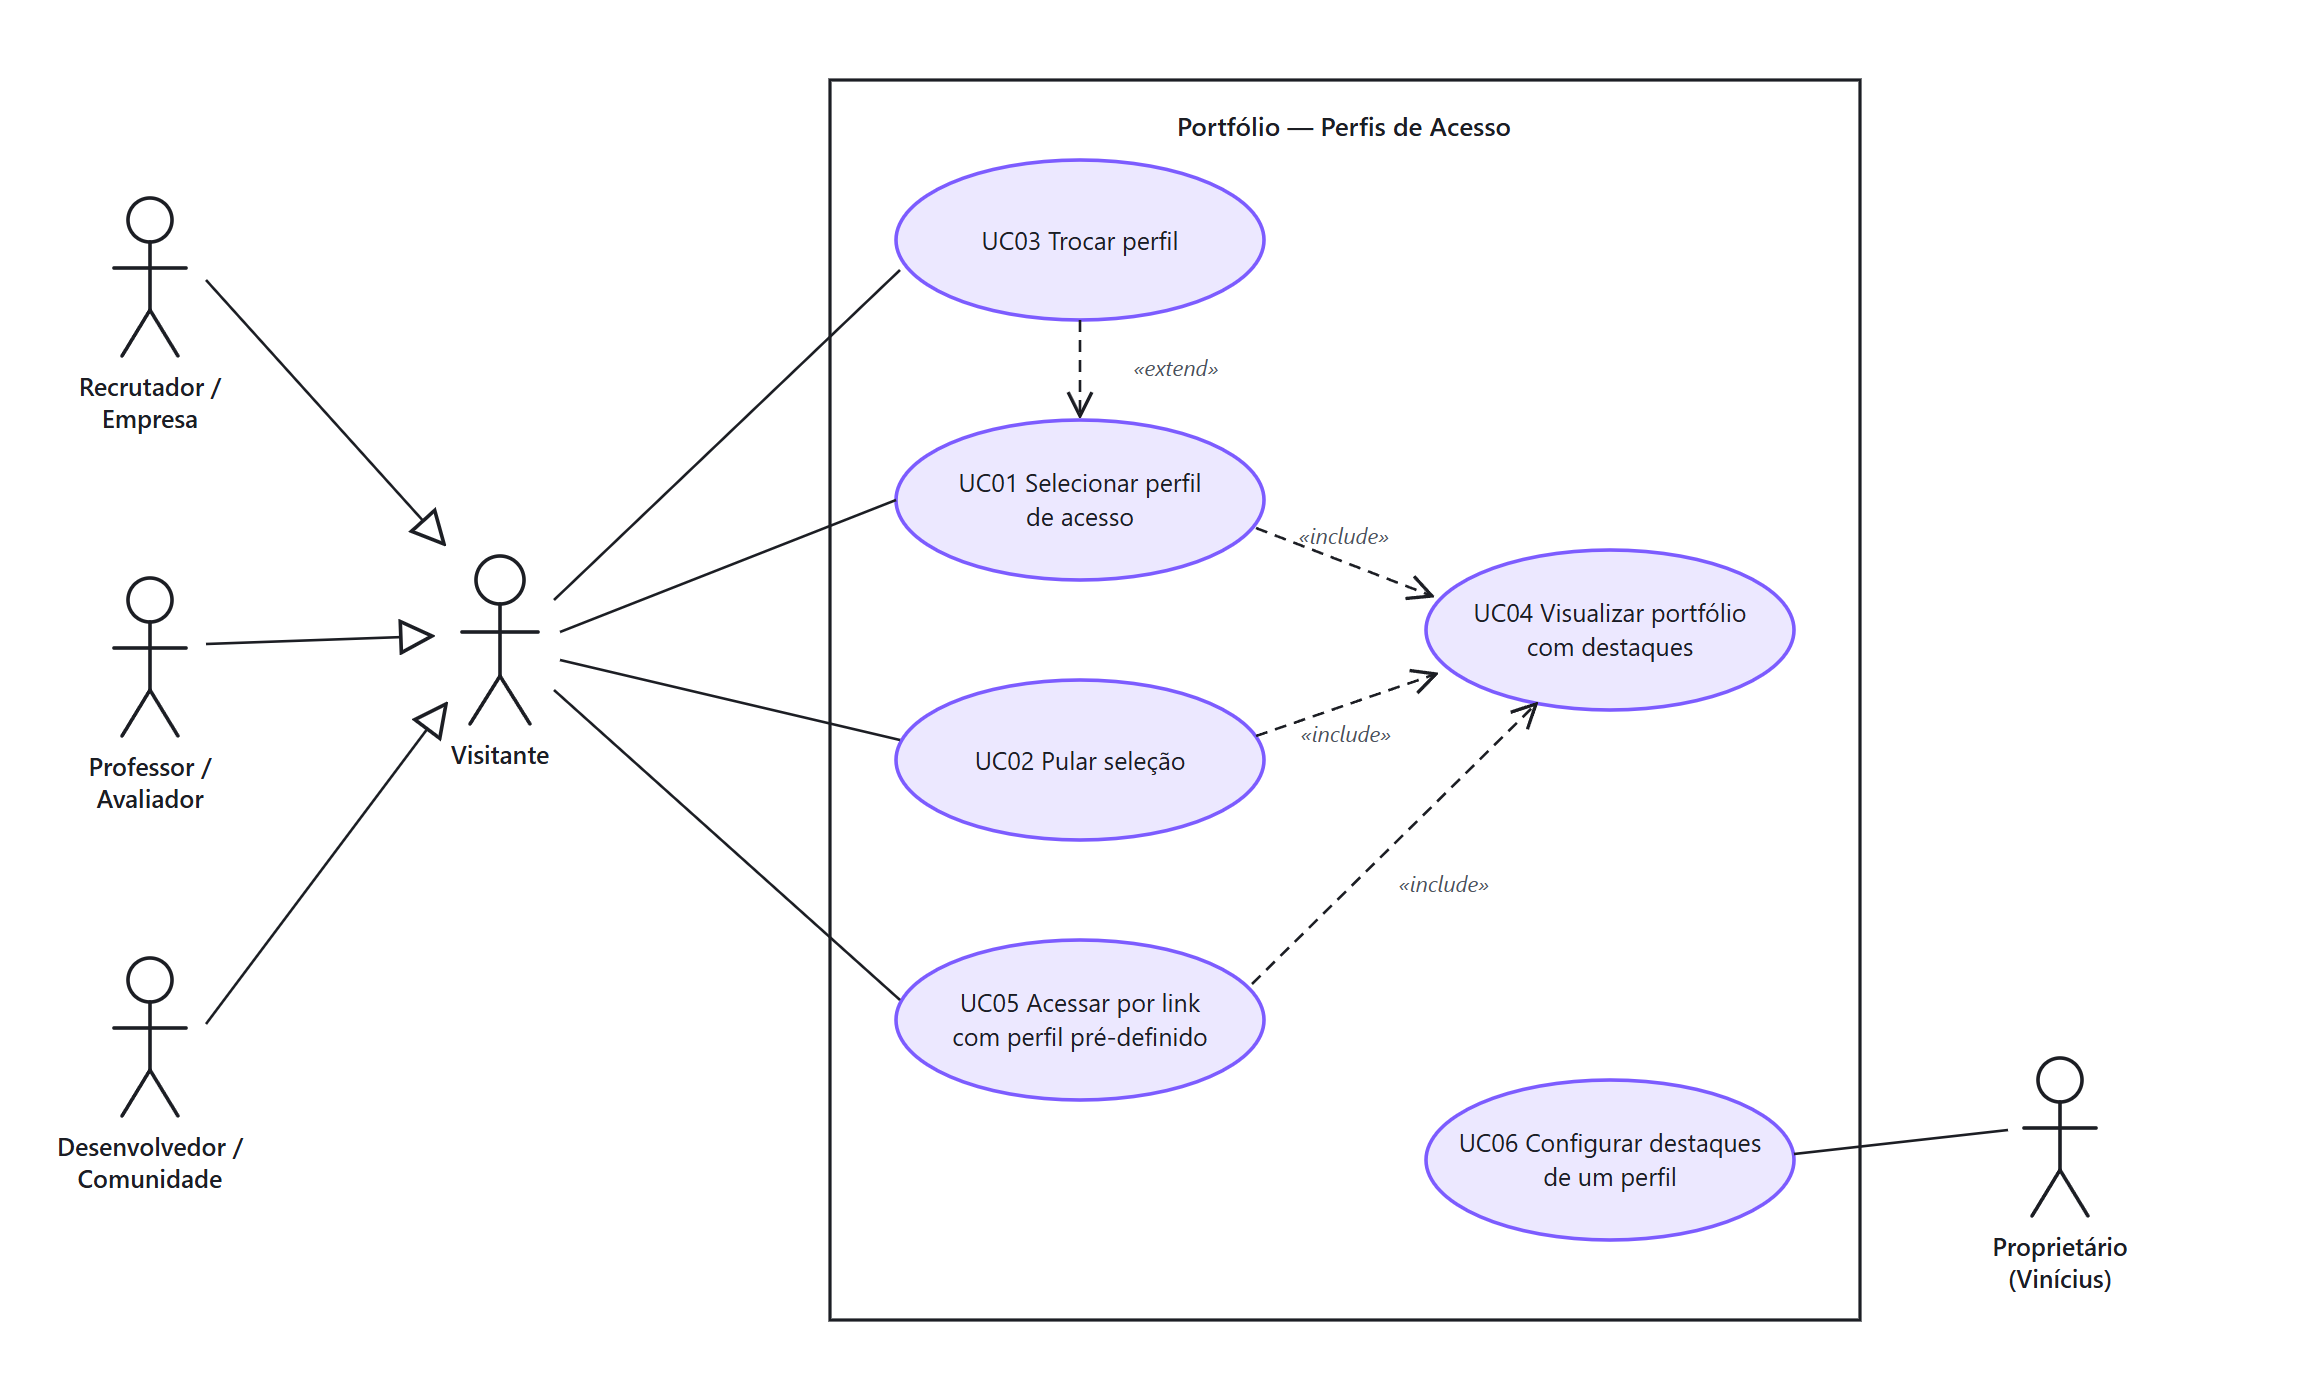
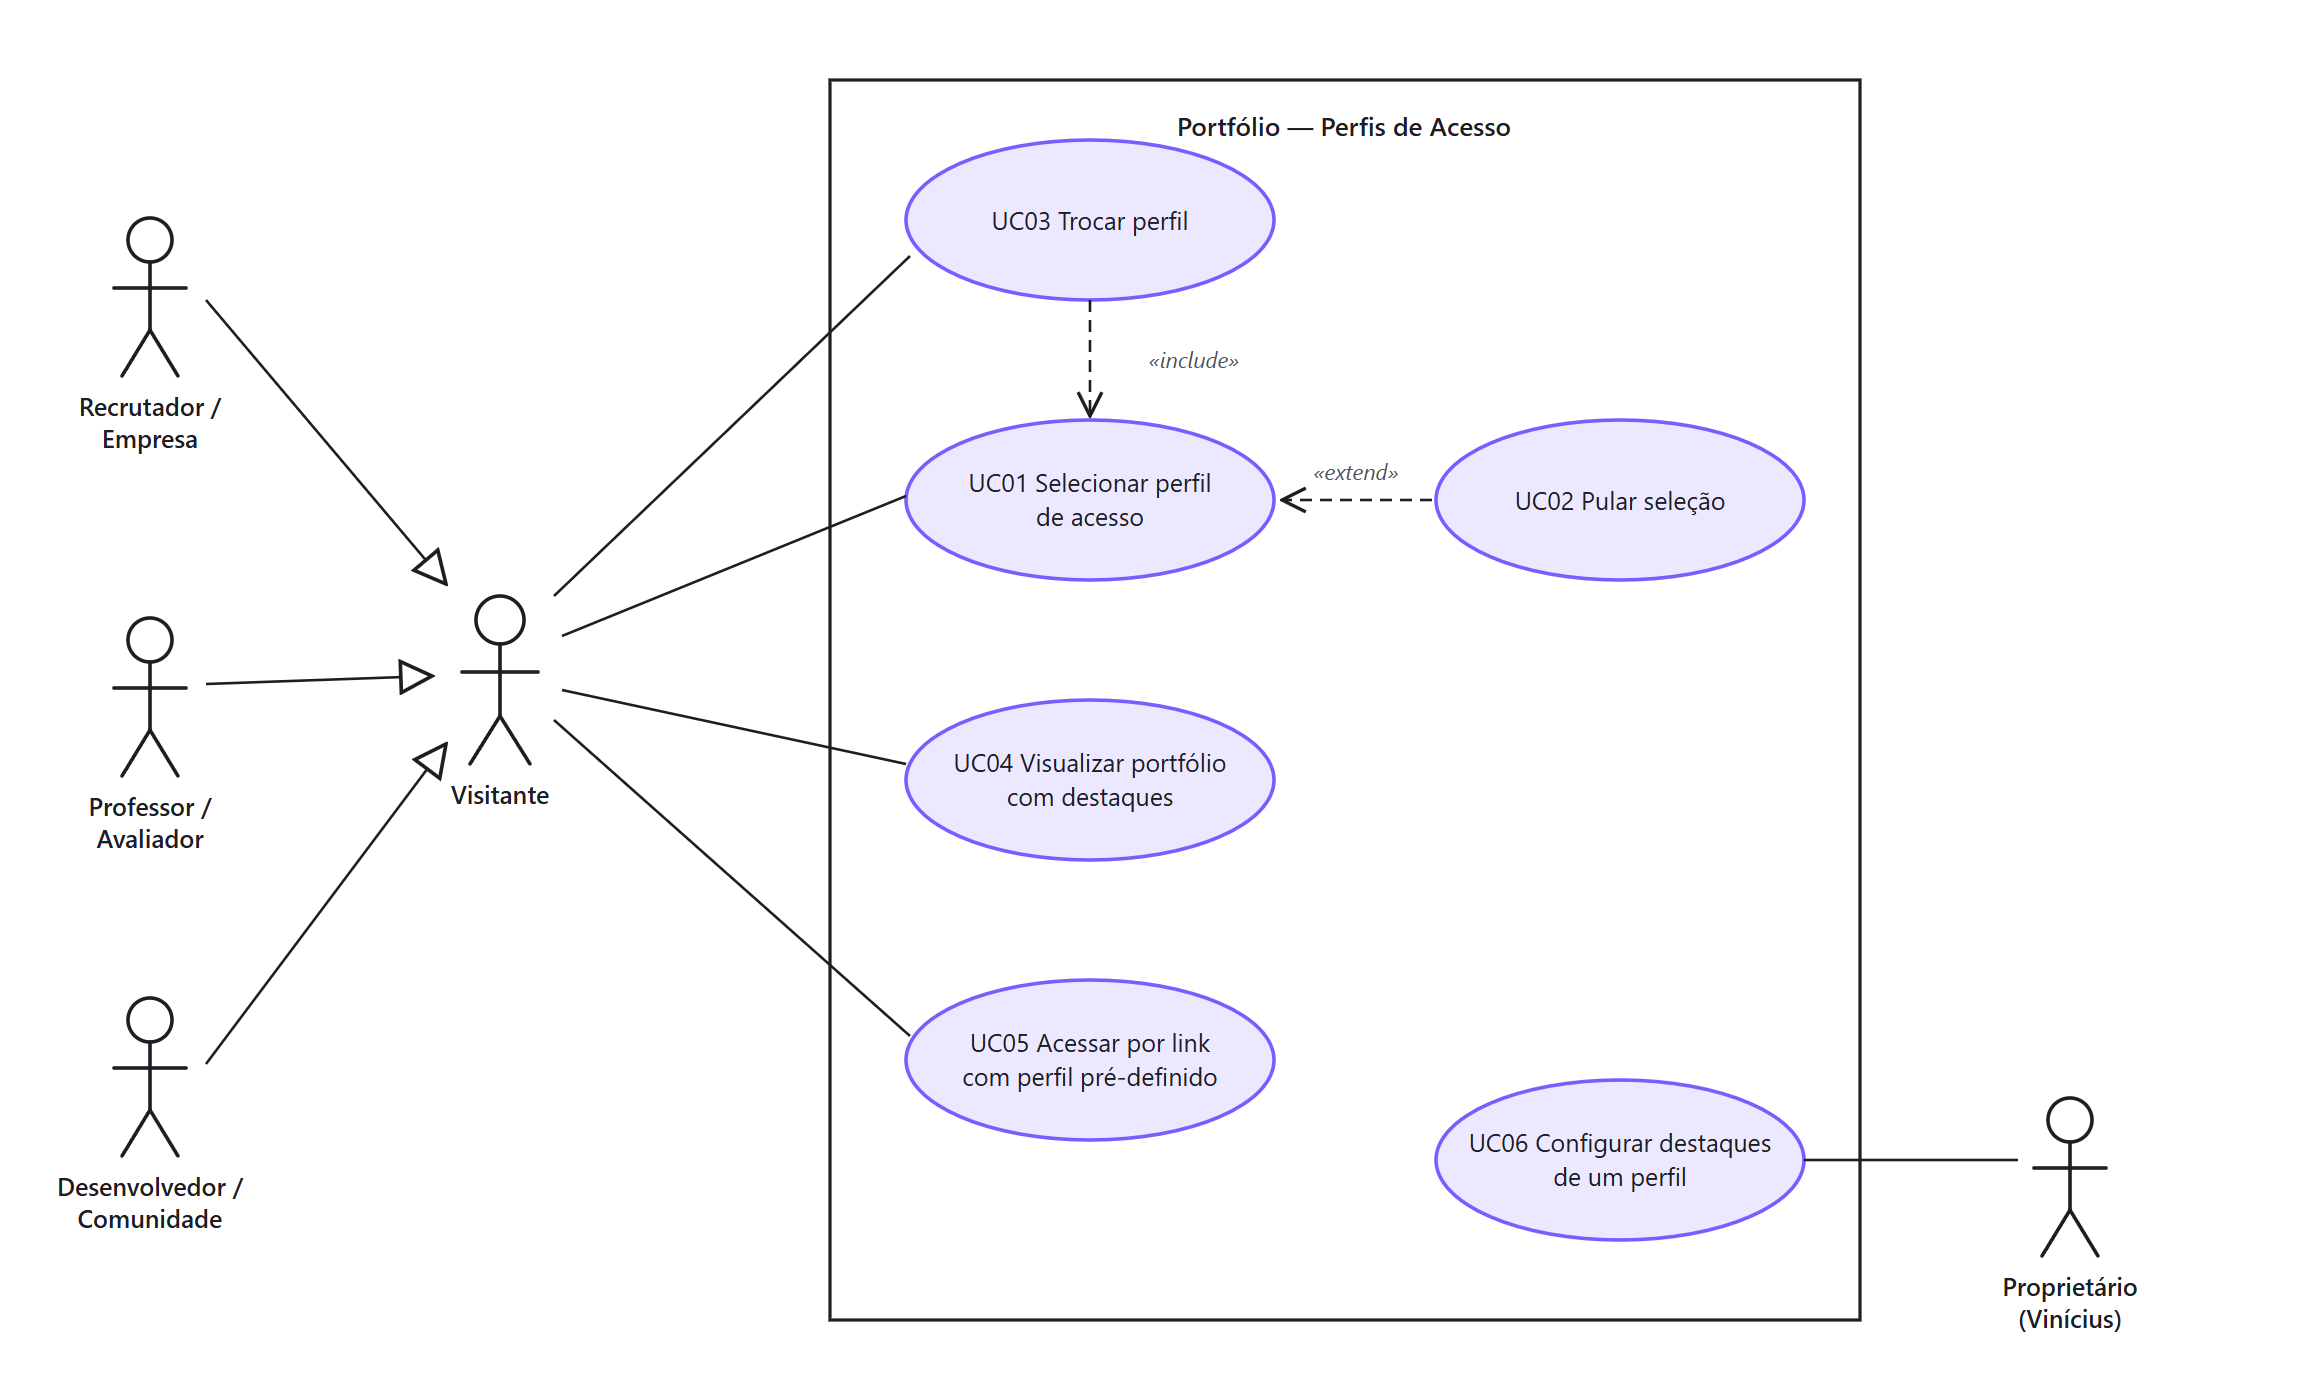
Docs: corrige relacionamentos include e extend do diagrama de casos de uso

diff --git a/docs/perfis-de-acesso.md b/docs/perfis-de-acesso.md
@@ -1,7 +1,7 @@
 # Perfis de Acesso — Levantamento de Requisitos e Casos de Uso
 
 > **Lab01 · Sprint 02 · Portfólio Profissional — Vinícius Oliveira Ramos**
-> Versão 1.0 · 26/08/2026 · Status: validado com o PO (decisões na seção 11) · Implementação: pendente, prevista para o Lab01S03
+> Versão 1.1 · 02/09/2026 · Status: validado com o PO (decisões na seção 11) · Implementação: pendente, prevista para o Lab01S03
 
 ---
 
@@ -51,7 +51,7 @@ Ao entrar no site, o visitante escolhe **quem ele é** em uma tela simples de se
 | ↳ Recrutador / Empresa | Profissional de RH, tech lead, empresa avaliando contratação | Experiência, habilidades, contato rápido |
 | ↳ Professor / Avaliador | Docente ou banca avaliando o trabalho acadêmico | Formação, projetos acadêmicos, código-fonte, evolução |
 | ↳ Desenvolvedor / Comunidade | Colegas, comunidade open source | Stack, repositórios, código |
-| ↳ Visitante geral | Quem não se identifica com os anteriores ou pula a seleção | Visão equilibrada |
+| Visitante geral | O próprio ator Visitante, sem especialização — quem não se identifica ou pula a seleção | Visão equilibrada |
 | **Proprietário** (Vinícius) | Dono do portfólio | Definir o que cada perfil vê em destaque (via código/dados) |
 
 ---
@@ -140,7 +140,14 @@ O que muda em cada seção, por perfil. **Tudo continua visível em todos os per
 
 ![Diagrama de casos de uso — Perfis de Acesso](diagramas/casos-de-uso-perfis.png)
 
-Diagrama de casos de uso UML. Os três perfis identificáveis são especializações do ator **Visitante** (generalização, triângulo vazado); o **Proprietário** é ator secundário, com acesso apenas ao UC06. As dependências tracejadas marcam os relacionamentos «include» e «extend».
+Diagrama de casos de uso UML.
+
+- **Generalização** (triângulo vazado): Recrutador, Professor e Desenvolvedor são especializações do ator **Visitante** e herdam todas as suas associações. O *Visitante geral* é o próprio ator base, sem especialização.
+- **Associações**: o Visitante é ator dos quatro casos de uso que representam metas suas — UC01, UC03, UC04 e UC05. O **Proprietário** é ator secundário, associado apenas ao UC06.
+- **`«include»`** (UC03 → UC01): trocar de perfil **sempre** passa pela seleção, então UC03 inclui UC01 obrigatoriamente.
+- **`«extend»`** (UC02 → UC01): pular a seleção é comportamento **opcional e condicional**, inserido no ponto de extensão *"escolha do perfil"* de UC01. A seta aponta do caso que estende para o caso base.
+
+**Por que UC04 não tem `«include»`.** Selecionar um perfil não *inclui* visualizar o portfólio: são duas metas distintas do visitante, uma acontecendo depois da outra. Sequência temporal não é relacionamento de caso de uso em UML — expressa-se por pré-condição, e é assim que o UC04 a registra. `«include»` fica reservado a comportamento compartilhado invocado de dentro de outro caso de uso.
 
 Fonte vetorial: [`docs/diagramas/casos-de-uso-perfis.svg`](diagramas/casos-de-uso-perfis.svg).
 
@@ -180,6 +187,7 @@ Fonte vetorial: [`docs/diagramas/casos-de-uso-perfis.svg`](diagramas/casos-de-us
 | **Objetivo** | Ver o portfólio sem se identificar |
 | **Pré-condições** | Tela de seleção exibida (UC01) |
 | **Pós-condições** | Perfil `geral` salvo; tela não reaparece nas próximas visitas |
+| **Relacionamento** | `«extend»` de UC01, no ponto de extensão *"escolha do perfil"* |
 | **Requisitos** | RF02, RF03 |
 
 **Fluxo principal**
@@ -200,6 +208,7 @@ Fonte vetorial: [`docs/diagramas/casos-de-uso-perfis.svg`](diagramas/casos-de-us
 | **Objetivo** | Mudar o perfil ativo a qualquer momento |
 | **Pré-condições** | Existe um perfil ativo (inclusive `geral`) |
 | **Pós-condições** | Novo perfil salvo e destaques atualizados sem recarregar a página |
+| **Relacionamento** | `«include»` UC01 — a troca sempre passa pela tela de seleção |
 | **Requisitos** | RF04, RNF02 |
 
 **Fluxo principal**
@@ -219,8 +228,9 @@ Fonte vetorial: [`docs/diagramas/casos-de-uso-perfis.svg`](diagramas/casos-de-us
 | --- | --- |
 | **Ator** | Visitante |
 | **Objetivo** | Navegar pelas seções vendo em evidência o que é relevante para seu perfil |
-| **Pré-condições** | Perfil ativo definido |
+| **Pré-condições** | Perfil ativo definido (por UC01, UC02 ou UC05) |
 | **Pós-condições** | — |
+| **Relacionamento** | Nenhum. É meta própria do Visitante; a definição do perfil é pré-condição, não inclusão |
 | **Requisitos** | RF05–RF11, RN01, RN02, RN05 |
 
 **Fluxo principal**
@@ -385,7 +395,8 @@ Desktop e mobile, seção 6 de [`docs/wireframes/wireframes.html`](wireframes/wi
 | 3 | Indicador no cabeçalho | **Texto:** "Vendo como: *Perfil*". |
 | 4 | Tags dos projetos | Confirmadas — ver tabela abaixo. |
 | 5 | Assunto sugerido no formulário de contato | **Novo campo "Assunto"** pré-preenchido conforme o perfil e editável pelo visitante; vira o assunto do e-mail. |
-| 6 | Ordem dos blocos de "Sobre Mim" | O conteúdo tem **3 blocos** (formação; atuação e interesses; objetivos), não 4 — a ordem por perfil trabalha sobre esses três. |
+| 6 | Revisão da modelagem UML (v1.1) | Corrigidos três relacionamentos: UC02 passou a `«extend»` de UC01 (era `«include»` para UC04); UC03 passou a `«include»` UC01 (era `«extend»`, com o sentido invertido); UC04 ganhou associação direta com o Visitante e perdeu os `«include»` que vinham de UC01, UC02 e UC05. |
+| 7 | Ordem dos blocos de "Sobre Mim" | O conteúdo tem **3 blocos** (formação; atuação e interesses; objetivos), não 4 — a ordem por perfil trabalha sobre esses três. |
 
 ### Tags por item de conteúdo
 
